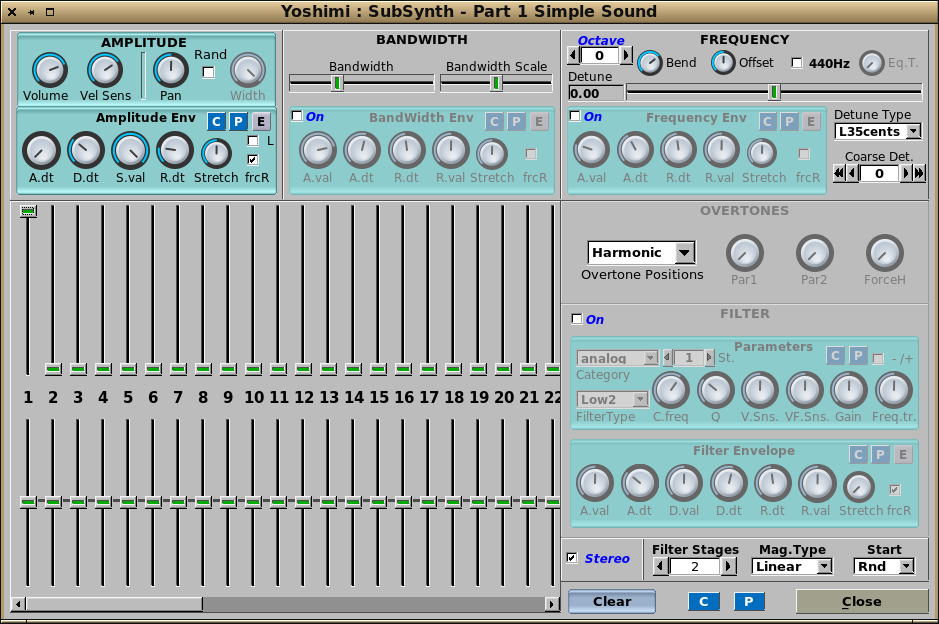
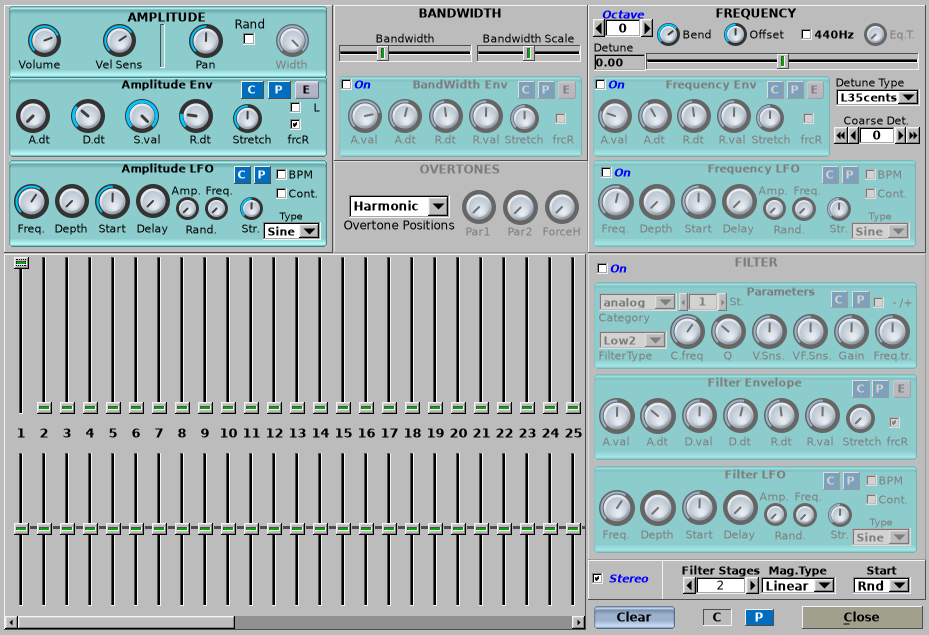
Merged in SubSynth LFO work from Kristian Adjusted Mixer panel VU limits for FLTK 1.4.x compatibility. Updated User Guide.

diff --git a/doc/yoshimi_user_guide/lfo/lfo.html b/doc/yoshimi_user_guide/lfo/lfo.html
@@ -47,6 +47,10 @@
     </li>
     </ul>
     </p>
+    <p>
+    Where LFOs are used in the frequency panels, it's advisable to be cautious with the depth control, especially when using the more extreme LFO shapes e.g. square wave (Squr).
+    These can become unstable at high depth settings.
+    </p>
     <!--<a href="../navigation/navigation.html">Next</a> (Navigation, Controls, Defaults)-->
   </body>
 </html>

diff --git a/src/Misc/ConfBuild.h b/src/Misc/ConfBuild.h
@@ -2,4 +2,4 @@
     ConfBuild.h
 */
 
-#define BUILD_NUMBER 2398
+#define BUILD_NUMBER 2399
